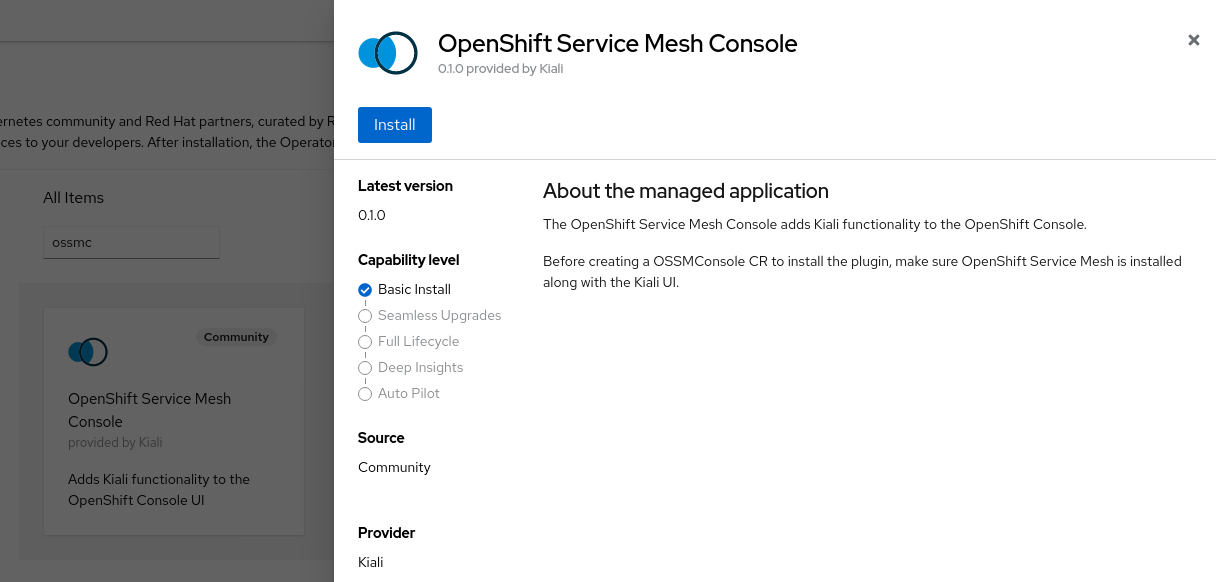
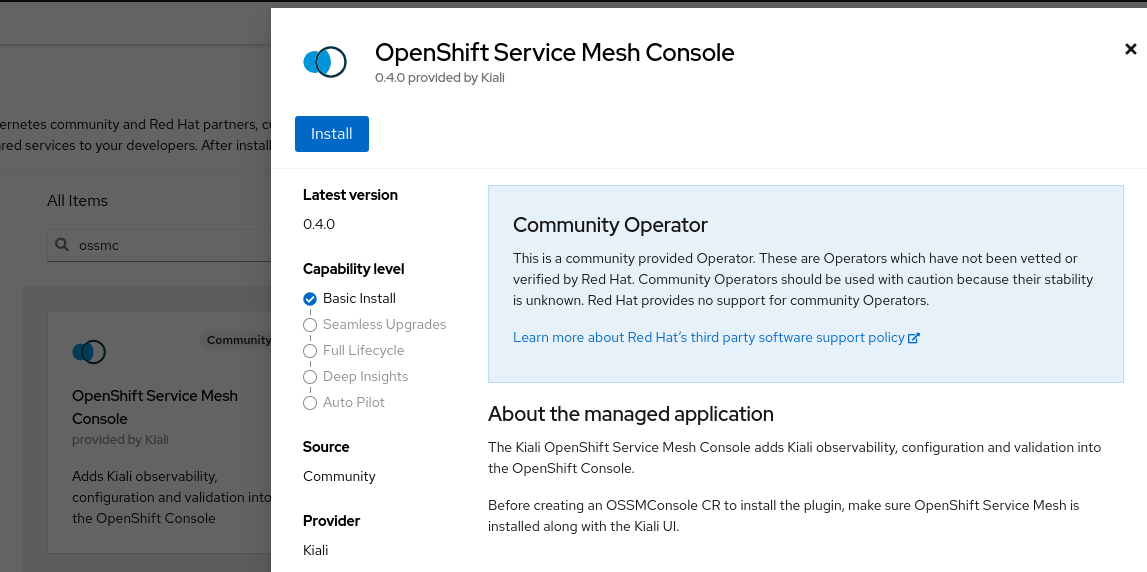
[docs] update install/user guides for 0.4.0

diff --git a/docs/users-guide.md b/docs/users-guide.md
@@ -4,7 +4,7 @@ The OpenShift Service Mesh Console (aka OSSMC) is an extension to the OpenShift 
 
 The features you see described here are very similar to those of the standalone Kiali Console (see https://kiali.io). In fact, you can still access the standalone Kiali Console if you wish. This User Guide, however, will discuss the extensions you see from within the OpenShift Console itself.
 
-:warning: The OSSMC [only supports a single tenant today](https://github.com/kiali/openshift-servicemesh-plugin/issues/28). Whether that tenant is configured to access only a subset of OpenShift projects or has access cluster-wide to all projects does not matter, however, only a single tenant can be accessed.
+:warning: The OSSMC [only supports a single tenant today](https://github.com/kiali/openshift-servicemesh-plugin/issues/187). Whether that tenant is configured to access only a subset of OpenShift projects or has access cluster-wide to all projects does not matter, however, only a single tenant can be accessed.
 
 :warning: If you are using a certificate that your browser does not initially trust, you must tell your browser to trust the certificate first before you are able to access the OpenShift Service Mesh Console. You can go to the Kiali standalone UI and tell the browser to accept its certificate in order to do this.
 

diff --git a/docs/install-guide.md b/docs/install-guide.md
@@ -104,6 +104,10 @@ After the plugin is installed, you can see the "OSSMConsole" resource that was c
 
 ![Installed Plugin](08-ui-installed-cr.png)
 
+Once the operator has finished processing the OSSMConsole CR, you must then wait for the OpenShift Console to load and initialize the plugin. This may take a minute or two. You will know when the plugin is ready when the OpenShift Console pops up this message - when you see this message, refresh the browser window to reload the OpenShift Console:
+
+![Plugin Ready](08.1-ui-installed-cr-plugin-ready.png)
+
 ## Uninstalling
 
 This section will describe how to uninstall the OpenShift Service Mesh Console plugin and its operator.
